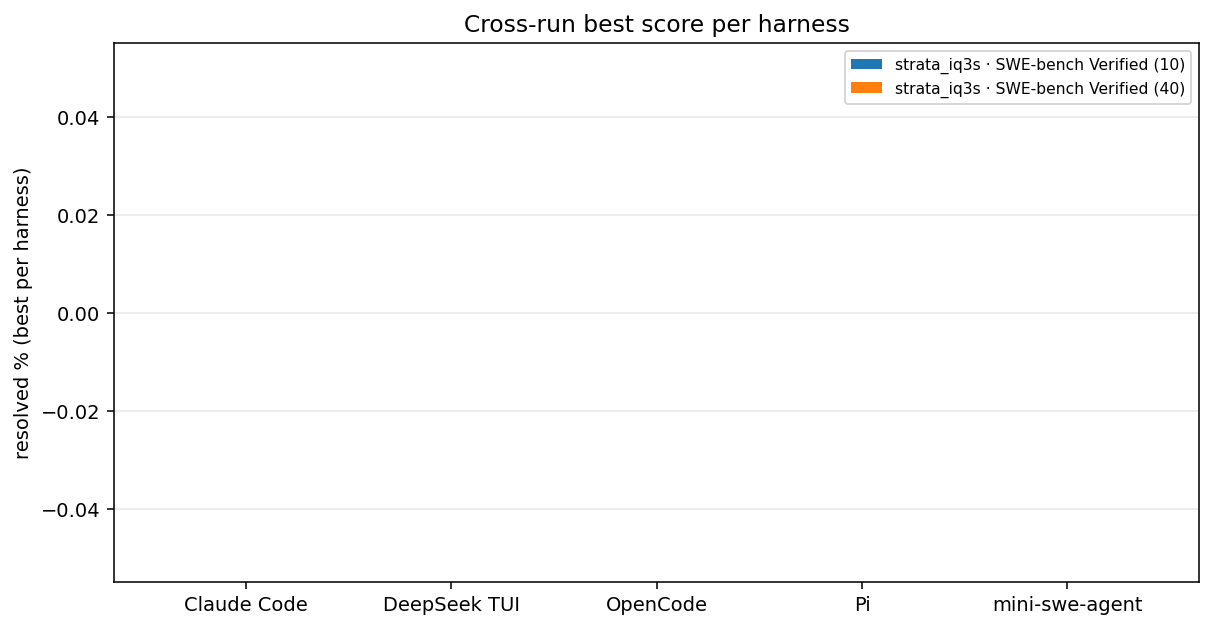
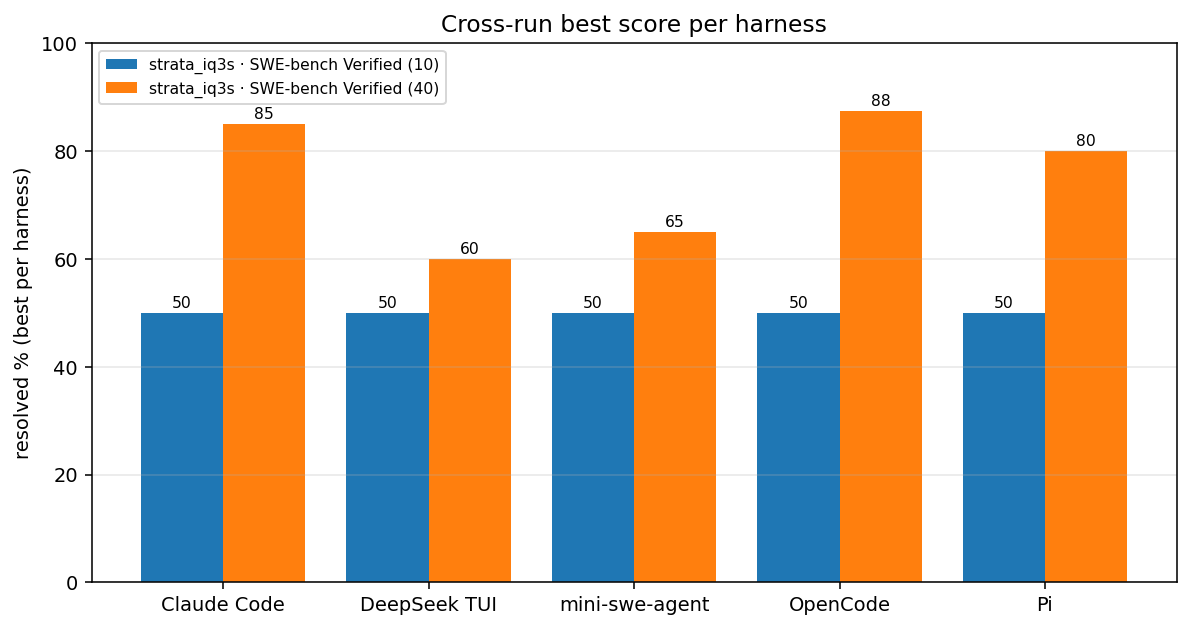
aggregate: fix empty leaderboard chart (display names used as dict keys)

diff --git a/scripts/aggregate.py b/scripts/aggregate.py
@@ -56,16 +56,17 @@ import matplotlib
 matplotlib.use("Agg")
 import matplotlib.pyplot as plt
 groups = sorted({(m, b) for (m, b, _) in best})
-harnesses = sorted({NAME.get(h, h) for (_, _, h) in best})
+raw_h = sorted({h for (_, _, h) in best})
 fig, ax = plt.subplots(figsize=(10, 5))
 w = 0.8 / max(1, len(groups))
 for gi, (m, b) in enumerate(groups):
-    vals = [100 * best[(m, b, h)]["rate"] if (m, b, h) in best else 0 for h in harnesses]
-    xs = [i + gi * w - 0.4 + w / 2 for i in range(len(harnesses))]
+    vals = [100 * best[(m, b, h)]["rate"] for h in raw_h if (m, b, h) in best]
+    xs = [raw_h.index(h) + gi * w - 0.4 + w / 2 for h in raw_h if (m, b, h) in best]
     ax.bar(xs, vals, width=w, label=f"{m} · {BENCH_NAME.get(b, b)}")
     for x, v in zip(xs, vals):
-        if v: ax.text(x, v + 1, f"{v:.0f}", ha="center", fontsize=8)
-ax.set_xticks(range(len(harnesses))); ax.set_xticklabels(harnesses)
+        ax.text(x, v + 1, f"{v:.0f}", ha="center", fontsize=8)
+ax.set_xticks(range(len(raw_h))); ax.set_xticklabels([NAME.get(h, h) for h in raw_h])
+ax.set_ylim(0, 100)
 ax.set_ylabel("resolved % (best per harness)")
 ax.set_title("Cross-run best score per harness")
 ax.legend(fontsize=8); ax.grid(axis="y", alpha=.3)
